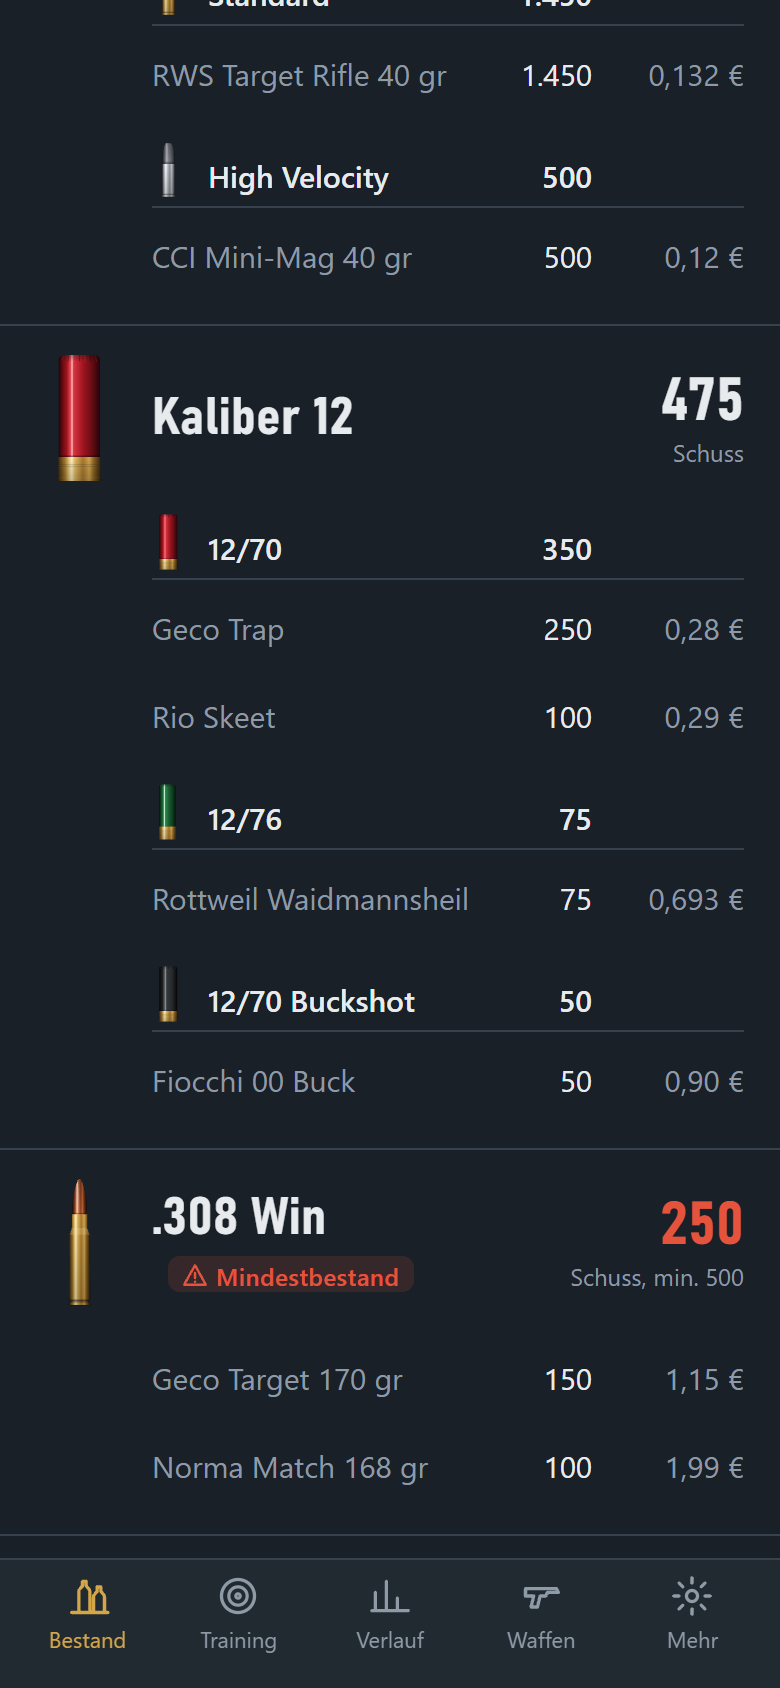
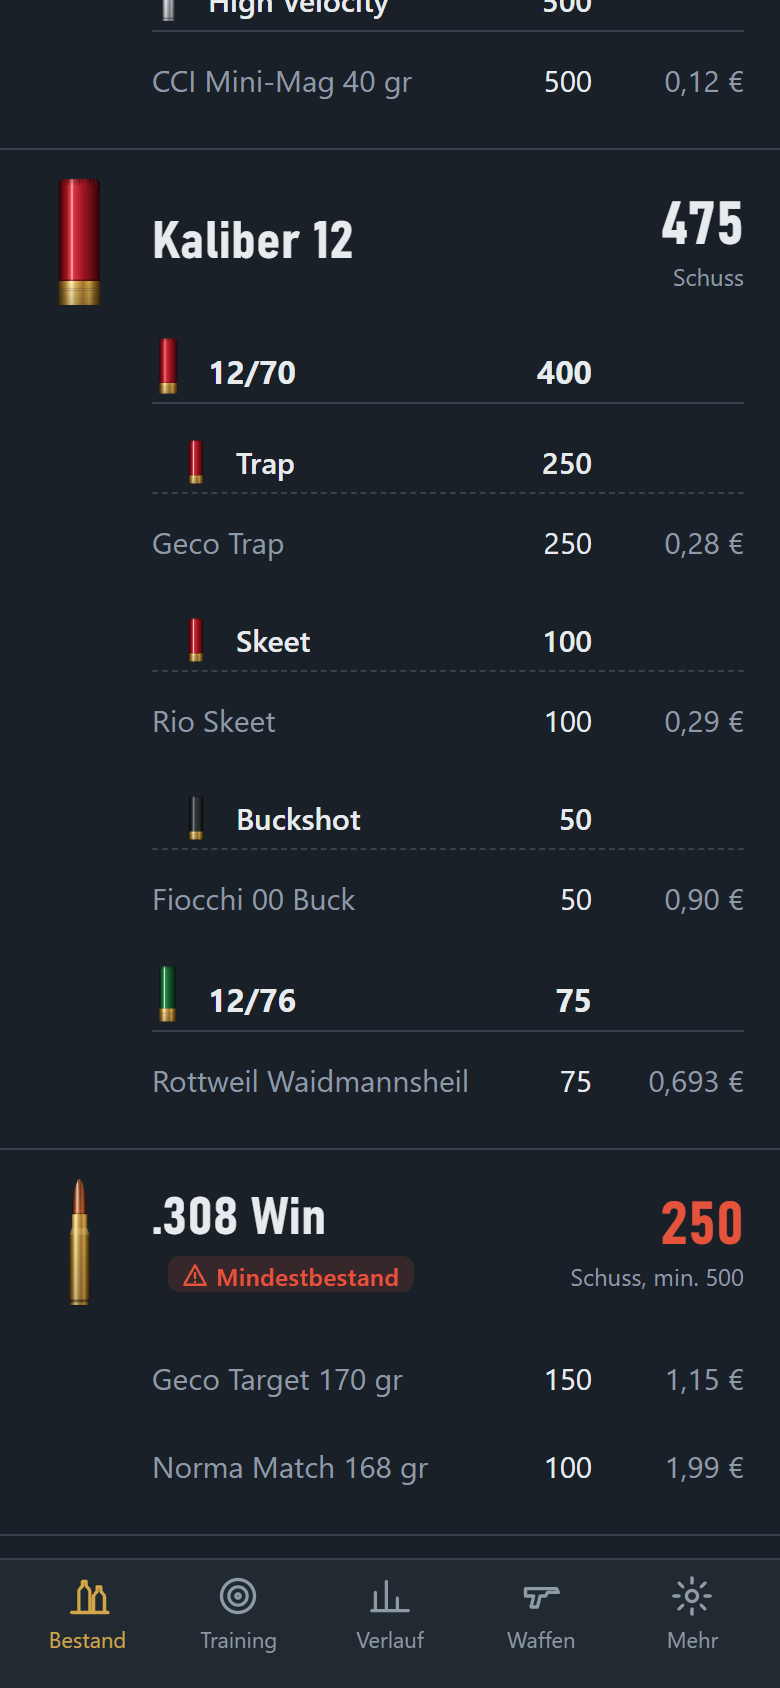
Bestand zeigt unter dem Hauptkaliber je Kaliber eine Summe, darunter die Arten (Version 15)
Neues Kaliber 12/65 im Kaliber 12, passt in 12/70 und 12/76.
Trap, Skeet und Slug als Art-Vorschläge. Handbuch angepasst.

diff --git a/handbuch/handbuch.html b/handbuch/handbuch.html
@@ -314,18 +314,18 @@ td:first-child { white-space: nowrap; font-weight: 600; color: #fff; width: 1%; 
   <div class="split">
     <div>
       <h3>Hauptkaliber und Unterarten</h3>
-      <p class="lead">Manche Kaliber gehören zusammen. Eine Flinte in 12/76 verschießt auch 12/70, ein Revolver in .357 Magnum auch .38 Special. Die App fasst sie deshalb zu einem Hauptkaliber zusammen: „Kaliber 12“ und „.357 Mag / .38 Spl“.</p>
-      <p>Oben steht die Gesamtzahl. Darunter folgt für jede Unterart eine Zwischenzeile mit kleiner Patrone und eigener Summe, z. B. 12/70, 12/76 und 12/70 Buckshot. Unter jeder Zwischenzeile stehen wie gewohnt die einzelnen Sorten.</p>
+      <p class="lead">Manche Kaliber gehören zusammen. Eine Flinte in 12/76 verschießt auch 12/70 und 12/65, ein Revolver in .357 Magnum auch .38 Special. Die App fasst sie deshalb zu einem Hauptkaliber zusammen: „Kaliber 12“ und „.357 Mag / .38 Spl“.</p>
+      <p>Oben steht die Gesamtzahl. Darunter folgt für jedes Kaliber eine Zeile mit kleiner Patrone und eigener Summe, z. B. 12/65, 12/70 und 12/76. Unter dem Kaliber stehen eingerückt die Arten mit ihrer Summe, etwa Trap, Skeet oder Buckshot, und darunter die einzelnen Sorten. Sorten ohne Art stehen direkt unter dem Kaliber.</p>
       <h3>Das Feld Art</h3>
-      <p>Beim Anlegen oder Bearbeiten einer Sorte gibt es das Feld <span class="k">Art</span>, z. B. Standard, High Velocity, Subsonic, Buckshot oder Flintenlaufgeschoss. Sorten mit gleicher Art werden zusammengezählt. So siehst du bei .22 lfB auf einen Blick, wie viel Standard und wie viel High Velocity da ist.</p>
-      <p>Zwischenzeilen erscheinen nur, wenn es mehr als eine Unterart gibt. Ein Kaliber, bei dem du keine Art einträgst, sieht aus wie bisher.</p>
+      <p>Beim Anlegen oder Bearbeiten einer Sorte gibt es das Feld <span class="k">Art</span>, z. B. Standard, High Velocity, Subsonic, Trap, Skeet, Buckshot oder Slug. Sorten mit gleicher Art werden zusammengezählt. So siehst du bei .22 lfB auf einen Blick, wie viel Standard und wie viel High Velocity da ist.</p>
+      <p>Bei einfachen Kalibern wie .22 lfB erscheinen Zwischenzeilen nur, wenn es mehr als eine Art gibt. Ein Kaliber, bei dem du keine Art einträgst, sieht aus wie bisher.</p>
       <div class="box"><span class="t">Buckshot erkennen</span>Von außen sieht Buckshot aus wie jede andere Schrotpatrone. Wähle bei der Sorte unter <span class="k">Hülse für das Bild</span> eine eigene Farbe, z. B. Schwarz. Dann steht in der Zwischenzeile eine schwarze Patrone.</div>
       <h3>Mindestbestand bei Hauptkalibern</h3>
-      <p>Ein Tipp auf „Kaliber 12“ zeigt ein Feld pro Kaliber, also eins für 12/70 und eins für 12/76. Die Warnung erscheint, sobald eins davon darunter fällt.</p>
+      <p>Ein Tipp auf „Kaliber 12“ zeigt ein Feld pro Kaliber, also eins für 12/70, eins für 12/76 und so weiter. Die Warnung erscheint, sobald eins davon darunter fällt.</p>
       <h3>Im Training</h3>
-      <p>An einer Waffe in 12/76 kannst du auch 12/70 wählen, an einer .357 Magnum auch .38 Special. Umgekehrt lehnt die App das ab, denn 12/76 passt nicht in eine 12/70-Flinte.</p>
+      <p>An einer Waffe in 12/76 kannst du auch 12/70 und 12/65 wählen, an einer 12/70 auch 12/65, an einer .357 Magnum auch .38 Special. Umgekehrt lehnt die App das ab, denn 12/76 passt nicht in eine 12/70-Flinte.</p>
     </div>
-    <div><div class="phone"><img src="img/kaliber12.png" alt="Kaliber 12 mit Unterarten 12/70, 12/76 und Buckshot"></div><div class="cap">Kaliber 12 mit drei Unterarten</div></div>
+    <div><div class="phone"><img src="img/kaliber12.png" alt="Kaliber 12 mit den Kalibern 12/70 und 12/76 und ihren Arten"></div><div class="cap">Kaliber 12 mit Kalibern und Arten</div></div>
   </div>
   <div class="foot"><b>AMMO TRACKER</b><span>5</span></div>
 </section>
@@ -410,7 +410,7 @@ td:first-child { white-space: nowrap; font-weight: 600; color: #fff; width: 1%; 
         <li><span class="k">App zwischendurch geschlossen:</span> Das Training bleibt erhalten. Beim nächsten Öffnen landest du direkt wieder darin.</li>
         <li><span class="k">Training verwerfen:</span> nichts wird gespeichert oder abgezogen.</li>
         <li><span class="k">Schnell hintereinander getippt:</span> Jeder Tipp zählt.</li>
-        <li><span class="k">Passende Munition:</span> An einer 12/76-Flinte lässt sich auch 12/70 wählen, an einer .357 Magnum auch .38 Special.</li>
+        <li><span class="k">Passende Munition:</span> An einer 12/76-Flinte lässt sich auch 12/70 und 12/65 wählen, an einer .357 Magnum auch .38 Special.</li>
       </ul>
     </div>
     <div>

diff --git a/js/views/stock.js b/js/views/stock.js
@@ -55,6 +55,11 @@ export function render() {
           <span class="p">${p == null ? '' : eurShot(p)}</span></button>`;
   };
 
+  // Zwischensumme einer Art (bzw. eines Kalibers ohne Art); inner = Art unter einer Kaliberzeile
+  const subRow = (s, inner = false) => `<div class="sub-row${inner ? ' art-row' : ''}"><span class="sub-img">${S.cart(S.caliber(s.caliberId), { height: inner ? 22 : 28 }, s.loads[0].load)}</span>
+            <span class="sub-label">${esc(s.label)}</span>
+            <span class="q" data-sub-total="${esc(s.key)}">${fmt(s.total)}</span></div>`;
+
   const rows = tree.map((b) => {
     const top = b.subs[0];
     const low = blockLow(b);
@@ -64,11 +69,12 @@ export function render() {
       <div class="thumb">${S.cart(S.caliber(top.caliberId), { height: 64 }, top.loads[0].load)}</div>
       <button class="label name" data-action="editCalMin" data-id="${esc(b.id)}" aria-label="Mindestbestand für ${esc(b.name)} festlegen">${esc(b.name)}${low ? `<span class="badge-low">${ICONS.warn}Mindestbestand</span>` : ''}</button>
       <div class="num total"><span data-block-total="${esc(b.id)}">${fmt(b.total)}</span><small>Schuss${single?.minStock > 0 ? `, min. ${fmt(single.minStock)}` : ''}</small></div>
-      <div class="loads">${b.subs.map((s) => (withSubs
-        ? `<div class="sub-row"><span class="sub-img">${S.cart(S.caliber(s.caliberId), { height: 28 }, s.loads[0].load)}</span>
-            <span class="sub-label">${esc(s.label)}</span>
-            <span class="q" data-sub-total="${esc(s.key)}">${fmt(s.total)}</span></div>`
-        : '') + s.loads.map(loadRow).join('')).join('')}</div>
+      <div class="loads">${single
+        ? b.subs.map((s) => (withSubs ? subRow(s) : '') + s.loads.map(loadRow).join('')).join('')
+        : b.cals.map((c) => `<div class="sub-row kal-row"><span class="sub-img">${S.cart(S.caliber(c.caliberId), { height: 28 }, c.subs[0].loads[0].load)}</span>
+            <span class="sub-label">${esc(c.name)}</span>
+            <span class="q" data-cal-total="${esc(b.id)}|${esc(c.caliberId)}">${fmt(c.total)}</span></div>`
+          + c.subs.map((s) => (s.art ? subRow(s, true) : '') + s.loads.map(loadRow).join('')).join('')).join('')}</div>
     </section>`;
   }).join('');
 
@@ -106,6 +112,10 @@ export function mount(root) {
         countUp(root.querySelector(`[data-sub-total="${CSS.escape(s.key)}"]`), s.loads.reduce((a, x) => a + oldQty(x), 0), s.total);
       }
       if (!blockChanged) continue;
+      for (const c of b.cals) {
+        const cOld = c.subs.reduce((a, s) => a + s.loads.reduce((x, y) => x + oldQty(y), 0), 0);
+        if (cOld !== c.total) countUp(root.querySelector(`[data-cal-total="${CSS.escape(`${b.id}|${c.caliberId}`)}"]`), cOld, c.total);
+      }
       const sumOld = b.subs.reduce((a, s) => a + s.loads.reduce((c, x) => c + oldQty(x), 0), 0);
       countUp(root.querySelector(`[data-block-total="${CSS.escape(b.id)}"]`), sumOld, b.total);
       if (blockLow(b)) blink(root.querySelector(`#cal-${CSS.escape(b.id)} .badge-low`));

diff --git a/tests/groups.test.js b/tests/groups.test.js
@@ -51,13 +51,35 @@ test('Kaliber 12: Gesamtzahl und Zwischensummen je Kaliber und Art', () => {
   assert.equal(b.id, 'g-12');
   assert.equal(b.name, 'Kaliber 12');
   assert.equal(b.total, 480);
-  assert.deepEqual(b.subs.map((s) => s.label), ['12/70', '12/76', '12/70 Buckshot']);
+  assert.deepEqual(b.subs.map((s) => s.label), ['12/70', '12/76', 'Buckshot']);
   assert.deepEqual(b.subs.map((s) => s.total), [250, 150, 80]);
   assert.deepEqual(b.caliberIds, ['c-12-70', 'c-12-76']);
   const buck = b.subs[2];
   assert.equal(buck.art, 'Buckshot');
   assert.equal(buck.caliberId, 'c-12-70');
   assert.deepEqual(buck.loads.map((x) => [x.load.id, x.qty]), [['buck1', 50], ['buck2', 30]]);
+});
+
+test('Kaliber 12: Kaliberebene mit Summe, darunter die Arten', () => {
+  const [b] = stockTree(data([
+    ['buck65', 'c-12-65', 'Buckshot', 50],
+    ['trap', 'c-12-70', 'Trap', 850],
+    ['skeet', 'c-12-70', 'Skeet', 300],
+    ['slug', 'c-12-70', 'Slug', 100],
+    ['ohne', 'c-12-70', '', 20],
+  ]), caliberById);
+  assert.equal(b.name, 'Kaliber 12');
+  assert.equal(b.total, 1320);
+  assert.deepEqual(b.cals.map((c) => [c.name, c.total]), [['12/70', 1270], ['12/65', 50]]);
+  assert.deepEqual(b.cals[0].subs.map((s) => [s.label, s.total]), [['12/70', 20], ['Trap', 850], ['Skeet', 300], ['Slug', 100]]);
+  assert.deepEqual(b.cals[1].subs.map((s) => [s.label, s.total]), [['Buckshot', 50]]);
+});
+
+test('12/65 passt in 12/70 und 12/76, nicht umgekehrt', () => {
+  assert.equal(groupOf('c-12-65'), 'g-12');
+  assert.equal(fitsFirearm('c-12-65', 'c-12-70'), true);
+  assert.equal(fitsFirearm('c-12-65', 'c-12-76'), true);
+  assert.equal(fitsFirearm('c-12-70', 'c-12-65'), false);
 });
 
 test('Von einer Gruppe nur ein Kaliber vorhanden: Block heißt wie das Kaliber', () => {

diff --git a/js/calibers.js b/js/calibers.js
@@ -61,6 +61,8 @@ export const DEFAULT_CALIBERS = [
     dims: { rim: 11.95, base: 11.95, shoulder: 10.92, shoulderAt: 47.5, neckAt: 50.6, mouth: 8.98, bullet: 8.22, caseLen: 57.0, oal: 80.6 } },
 
   // Schrot
+  { id: 'c-12-65', name: '12/65', family: 'shotgun', bullet: 'none', caseColor: 'red',
+    dims: { rim: 22.4, base: 20.6, mouth: 20.6, head: 12, caseLen: 58, oal: 58 } },
   { id: 'c-12-70', name: '12/70', family: 'shotgun', bullet: 'none', caseColor: 'red',
     dims: { rim: 22.4, base: 20.6, mouth: 20.6, head: 12, caseLen: 63, oal: 63 } },
   { id: 'c-12-76', name: '12/76', family: 'shotgun', bullet: 'none', caseColor: 'green',
@@ -129,12 +131,12 @@ export function guessDims(family, bulletMm = 9, caseLenMm) {
 // Hauptkaliber: Kaliber, die zusammen gezählt werden. Fehlt ein Kaliber hier, ist es seine eigene Gruppe.
 // Steht im Code statt in der Datenbank, weil gespeicherte Vorgabe-Kaliber keine neuen Felder bekommen.
 export const CALIBER_GROUPS = {
-  'c-12-70': 'g-12', 'c-12-76': 'g-12',
+  'c-12-65': 'g-12', 'c-12-70': 'g-12', 'c-12-76': 'g-12',
   'c-357': 'g-357', 'c-38spl': 'g-357',
 };
 export const GROUP_NAMES = { 'g-12': 'Kaliber 12', 'g-357': '.357 Mag / .38 Spl' };
 
 // Waffen-Kaliber → welche anderen Kaliber sie zusätzlich verschießen kann (nur in diese Richtung)
-export const ALSO_FITS = { 'c-12-76': ['c-12-70'], 'c-357': ['c-38spl'] };
+export const ALSO_FITS = { 'c-12-70': ['c-12-65'], 'c-12-76': ['c-12-70', 'c-12-65'], 'c-357': ['c-38spl'] };
 
-export const ART_SUGGESTIONS = ['Standard', 'High Velocity', 'Subsonic', 'Match', 'Buckshot', 'Flintenlaufgeschoss'];
+export const ART_SUGGESTIONS = ['Standard', 'High Velocity', 'Subsonic', 'Match', 'Trap', 'Skeet', 'Buckshot', 'Slug', 'Flintenlaufgeschoss'];

diff --git a/js/model.js b/js/model.js
@@ -78,7 +78,7 @@ export function pickLoad(loads, stock, firearmCaliberId, lastIds = []) {
   return (best((l) => l.caliberId === firearmCaliberId) || best(fits))?.id || '';
 }
 
-// Bestand als Baum: Block (Hauptkaliber) → Unterart (Kaliber + Art) → Sorte.
+// Bestand als Baum: Block (Hauptkaliber) → Kaliber → Art → Sorte (subs: flache Liste Kaliber + Art).
 // Blöcke und Unterarten nach Bestand absteigend, Sorten in der gegebenen Reihenfolge.
 export function stockTree(data, caliberById) {
   const stock = stockByLoad(data);
@@ -103,16 +103,19 @@ export function stockTree(data, caliberById) {
     for (const s of list) calTotals.set(s.caliberId, (calTotals.get(s.caliberId) || 0) + s.total);
     const caliberIds = [...calTotals].sort((a, b) => b[1] - a[1]).map(([cid]) => cid);
     const multi = caliberIds.length > 1;
-    for (const s of list) {
-      const cname = caliberById(s.caliberId).name;
-      s.label = multi ? [cname, s.art].filter(Boolean).join(' ') : (s.art || cname);
-    }
+    for (const s of list) s.label = s.art || caliberById(s.caliberId).name;
+    // Je Kaliber: Summe und seine Arten (Sorten ohne Art zuerst, dann nach Bestand)
+    const cals = caliberIds.map((cid) => {
+      const subs = list.filter((s) => s.caliberId === cid).sort((a, b) => (a.art ? 1 : 0) - (b.art ? 1 : 0));
+      return { caliberId: cid, name: caliberById(cid).name, total: calTotals.get(cid), subs };
+    });
     return {
       id,
       name: multi ? (GROUP_NAMES[id] || id) : caliberById(caliberIds[0]).name,
       caliberIds,
       total: list.reduce((a, s) => a + s.total, 0),
       subs: list,
+      cals,
     };
   }).sort(byTotal);
 }

diff --git a/css/app.css b/css/app.css
@@ -332,6 +332,9 @@ button:disabled { opacity: .4; cursor: default; }
 .sub-row .sub-img { display: flex; justify-content: center; align-items: flex-end; height: 28px; }
 .sub-row .sub-label { overflow: hidden; text-overflow: ellipsis; white-space: nowrap; }
 .sub-row .q { font-variant-numeric: tabular-nums; text-align: right; grid-column: 3; }
+.sub-row.kal-row { font-size: 16px; font-weight: 700; }
+.sub-row.art-row { margin-top: 8px; font-size: 15px; font-weight: 600; border-bottom-style: dashed; }
+.sub-row.art-row { padding-left: 14px; }
 
 @media (min-width: 860px) {
   .stock-list { display: grid; grid-template-columns: 1fr 1fr; column-gap: 1px; background: var(--line); }

diff --git a/sw.js b/sw.js
@@ -1,7 +1,7 @@
 // Service Worker: hält alle App-Dateien auf dem Gerät, damit die App offline startet.
 // Er lädt ausschließlich Dateien der App selbst, nie etwas von fremden Servern.
 // Bei jeder Änderung an App-Dateien VERSION erhöhen (und js/version.js).
-const VERSION = 'ammo-v14';
+const VERSION = 'ammo-v15';
 const FILES = [
   './', './index.html', './manifest.webmanifest', './css/app.css',
   './js/app.js', './js/version.js', './js/keyboard.js', './js/store.js', './js/db.js', './js/model.js', './js/ui.js', './js/anim.js',

diff --git a/js/version.js b/js/version.js
@@ -1,3 +1,3 @@
 // App-Version. Bei jedem Update BEIDES anpassen: hier und VERSION in sw.js ('ammo-v<number>').
 // tests/version.test.js prüft, dass beide übereinstimmen.
-export const APP_VERSION = { number: 14, date: '26.11.2026' };
+export const APP_VERSION = { number: 15, date: '26.11.2026' };

diff --git a/README.md b/README.md
@@ -9,7 +9,7 @@ Nach der Installation lädt die App nichts mehr aus dem Internet und darf techni
 ## Funktionen
 
 - Bestand pro Kaliber mit einzelnen Sorten (Hersteller, Geschossgewicht, Preis)
-- Hauptkaliber mit Unterarten: Kaliber 12 (12/70, 12/76) und .357/.38 zusammengezählt, Zwischensummen je Art (z. B. Buckshot, High Velocity); im Training passt 12/70 in 12/76 und .38 Spl in .357
+- Hauptkaliber mit Unterarten: Kaliber 12 (12/65, 12/70, 12/76) und .357/.38 zusammengezählt, Summe je Kaliber und darunter je Art (z. B. Trap, Buckshot, High Velocity); im Training passt 12/65 in 12/70 und 12/76, 12/70 in 12/76 und .38 Spl in .357
 - Packungen per Strichcode oder QR-Code scannen, Anzahl eingeben, fertig gebucht
 - Training am Stand: starten, nach jedem Durchgang die Anzahl antippen, beenden. Erst dann wird vom Bestand abgezogen
 - Einkäufe mit Preis, daraus Kosten pro Schuss und Wert des Bestands
